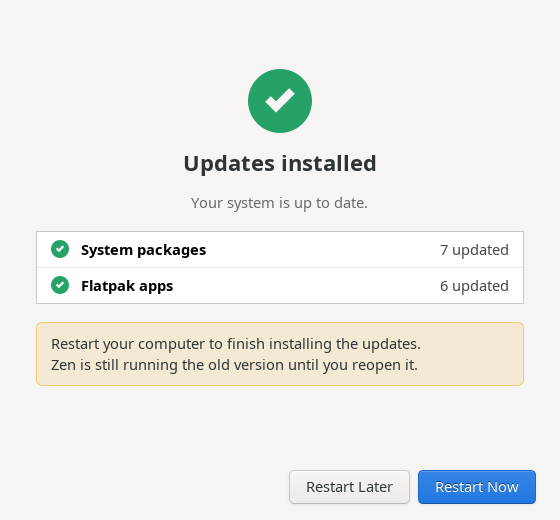
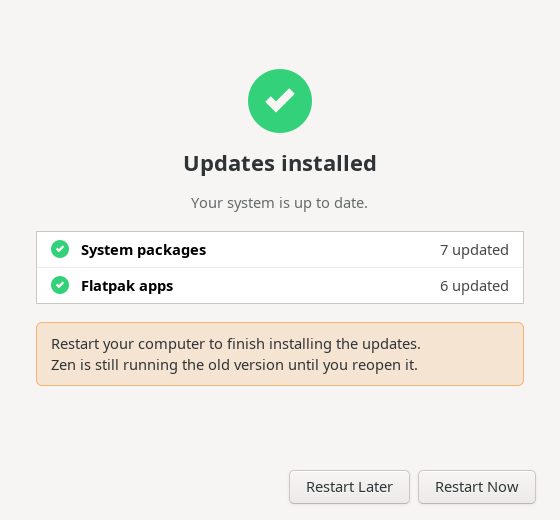
Take all colors from the GTK theme
The main buttons used the suggested-action style, which some themes
paint in a loud accent color, and the status colors were fixed. Buttons
are now plain, and the status colors use the theme's success_color,
warning_color and error_color. A fallback stylesheet, loaded below the
theme, defines them only for themes that do not.

Fixes #1

diff --git a/src/resources/shopno-update-helper.css b/src/resources/shopno-update-helper.css
@@ -1,6 +1,6 @@
 /*
- * Shopno Update Helper styles. Colors come from the GTK theme where it
- * has one; the status colors work on light and dark themes.
+ * Shopno Update Helper styles. All colors come from the GTK theme;
+ * shopno-update-helper-colors.css fills in any the theme does not define.
  */
 
 .shopno-body {
@@ -52,15 +52,15 @@
 }
 
 .shopno-success {
-  color: #26a269;
+  color: @success_color;
 }
 
 .shopno-warning {
-  color: #c88800;
+  color: @warning_color;
 }
 
 .shopno-error {
-  color: #d0323d;
+  color: @error_color;
 }
 
 /* Lists */
@@ -100,8 +100,8 @@ list.shopno-list > row.shopno-section {
   padding: 10px 14px;
   margin: 0 24px 12px 24px;
   border-radius: 6px;
-  border: 1px solid alpha(#e5a50a, 0.45);
-  background-color: alpha(#e5a50a, 0.14);
+  border: 1px solid alpha(@warning_color, 0.45);
+  background-color: alpha(@warning_color, 0.14);
 }
 
 .shopno-body .shopno-notice {
@@ -144,15 +144,15 @@ list.shopno-list > row.shopno-section {
 }
 
 .shopno-step-done .shopno-step-number {
-  border-color: #26a269;
-  background-color: #26a269;
-  color: #ffffff;
+  border-color: @success_color;
+  background-color: @success_color;
+  color: @theme_selected_fg_color;
 }
 
 .shopno-step-failed .shopno-step-number {
-  border-color: #d0323d;
-  background-color: #d0323d;
-  color: #ffffff;
+  border-color: @error_color;
+  background-color: @error_color;
+  color: @theme_selected_fg_color;
 }
 
 .shopno-step-line {

diff --git a/src/resources/shopno-update-helper-colors.css b/src/resources/shopno-update-helper-colors.css
@@ -1,0 +1,9 @@
+/*
+ * Status colors for themes that do not define them. Loaded below the
+ * theme, so a theme's own success_color, warning_color and error_color
+ * win. These read on light and dark backgrounds.
+ */
+
+@define-color success_color #26a269;
+@define-color warning_color #c88800;
+@define-color error_color #d0323d;

diff --git a/src/shopno-update-window.c b/src/shopno-update-window.c
@@ -292,20 +292,6 @@ footer_new (GtkWidget **hint)
 
 
 static GtkWidget *
-button_new (const gchar *label,
-            gboolean     suggested)
-{
-  GtkWidget *button = gtk_button_new_with_mnemonic (label);
-
-  if (suggested)
-    add_class (button, "suggested-action");
-
-  return button;
-}
-
-
-
-static GtkWidget *
 source_row_new (SourceRow   *row,
                 const gchar *title)
 {
@@ -407,7 +393,7 @@ build_checking_page (ShopnoUpdateWindow *self)
   GtkWidget *body = gtk_box_new (GTK_ORIENTATION_VERTICAL, 12);
   GtkWidget *spinner = gtk_spinner_new ();
   GtkWidget *footer = footer_new (NULL);
-  GtkWidget *cancel = button_new (_("_Cancel"), FALSE);
+  GtkWidget *cancel = gtk_button_new_with_mnemonic (_("_Cancel"));
 
   add_class (body, "shopno-body");
   gtk_widget_set_valign (body, GTK_ALIGN_CENTER);
@@ -443,8 +429,8 @@ build_updates_page (ShopnoUpdateWindow *self)
   GtkWidget *frame;
   GtkWidget *hint;
   GtkWidget *footer = footer_new (&hint);
-  GtkWidget *skip = button_new (_("_Skip"), FALSE);
-  GtkWidget *upgrade = button_new (_("_Upgrade"), TRUE);
+  GtkWidget *skip = gtk_button_new_with_mnemonic (_("_Skip"));
+  GtkWidget *upgrade = gtk_button_new_with_mnemonic (_("_Upgrade"));
 
   add_class (header, "shopno-header");
   add_class (icon, "shopno-accent");
@@ -644,8 +630,8 @@ build_result_page (ShopnoUpdateWindow *self)
   gtk_box_pack_start (GTK_BOX (body), GTK_WIDGET (self->result_notice), FALSE, FALSE, 0);
   gtk_box_pack_start (GTK_BOX (body), GTK_WIDGET (self->result_details), FALSE, FALSE, 0);
 
-  self->result_primary = GTK_BUTTON (button_new (NULL, TRUE));
-  self->result_secondary = button_new (_("_Close"), FALSE);
+  self->result_primary = GTK_BUTTON (gtk_button_new_with_mnemonic (NULL));
+  self->result_secondary = gtk_button_new_with_mnemonic (_("_Close"));
   gtk_widget_show (self->result_secondary);
   gtk_widget_set_no_show_all (self->result_secondary, TRUE);
   g_signal_connect_swapped (self->result_primary, "clicked", G_CALLBACK (on_result_primary), self);
@@ -1771,7 +1757,14 @@ shopno_update_window_new (GtkApplication *application)
 void
 shopno_update_load_style (void)
 {
+  g_autoptr(GtkCssProvider) colors = gtk_css_provider_new ();
   g_autoptr(GtkCssProvider) provider = gtk_css_provider_new ();
+
+  /* Below the theme, so these colors only fill in what it leaves out */
+  gtk_css_provider_load_from_resource (colors, RESOURCE_PATH "/shopno-update-helper-colors.css");
+  gtk_style_context_add_provider_for_screen (gdk_screen_get_default (),
+                                             GTK_STYLE_PROVIDER (colors),
+                                             GTK_STYLE_PROVIDER_PRIORITY_FALLBACK);
 
   gtk_css_provider_load_from_resource (provider, RESOURCE_PATH "/shopno-update-helper.css");
   gtk_style_context_add_provider_for_screen (gdk_screen_get_default (),
